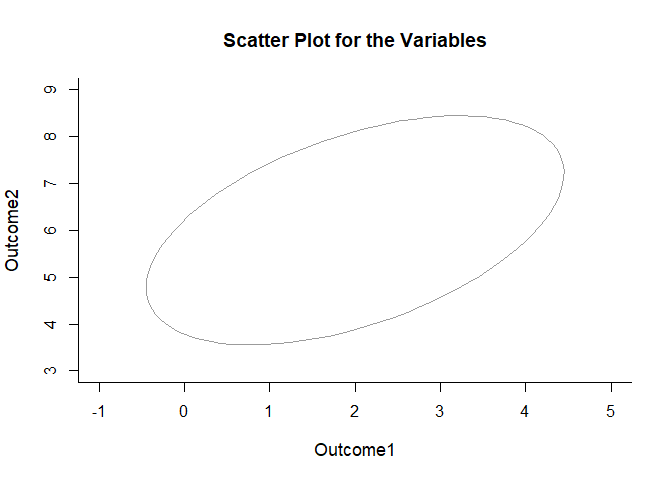
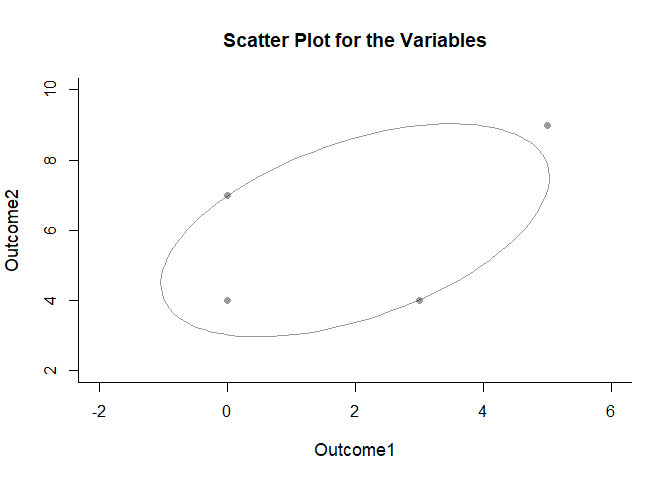
Updated scatter plots

diff --git a/docs/Tutorials/html/OneCorrelationDataTutorial.html b/docs/Tutorials/html/OneCorrelationDataTutorial.html
@@ -11,7 +11,7 @@
 
 <meta name="author" content="Craig A. Wendorf" />
 
-<meta name="date" content="2021-06-24" />
+<meta name="date" content="2021-06-25" />
 
 <title>Estimation Approach to Statistical Inference</title>
 
@@ -325,7 +325,7 @@ div.tocify {
 
 <h1 class="title toc-ignore">Estimation Approach to Statistical Inference</h1>
 <h4 class="author">Craig A. Wendorf</h4>
-<h4 class="date">2021-06-24</h4>
+<h4 class="date">2021-06-25</h4>
 
 </div>
 
@@ -347,10 +347,10 @@ div.tocify {
 <div class="sourceCode" id="cb2"><pre class="sourceCode r"><code class="sourceCode r"><span id="cb2-1"><a href="#cb2-1" aria-hidden="true" tabindex="-1"></a><span class="fu">plotScatter</span>(Outcome1,Outcome2)</span></code></pre></div>
[1 lines of base64/hex data omitted]
 <p>This code provides a scatterplot along with a 95% confidence ellipse for the data.</p>
-<div class="sourceCode" id="cb3"><pre class="sourceCode r"><code class="sourceCode r"><span id="cb3-1"><a href="#cb3-1" aria-hidden="true" tabindex="-1"></a><span class="fu">plotScatter</span>(Outcome1,Outcome2,<span class="at">interval=</span><span class="cn">TRUE</span>)</span></code></pre></div>
+<div class="sourceCode" id="cb3"><pre class="sourceCode r"><code class="sourceCode r"><span id="cb3-1"><a href="#cb3-1" aria-hidden="true" tabindex="-1"></a><span class="fu">plotScatter</span>(Outcome1,Outcome2,<span class="at">ellipse=</span><span class="cn">TRUE</span>)</span></code></pre></div>
[1 lines of base64/hex data omitted]
 <p>The ellipse can be altered for different confidence levels.</p>
-<div class="sourceCode" id="cb4"><pre class="sourceCode r"><code class="sourceCode r"><span id="cb4-1"><a href="#cb4-1" aria-hidden="true" tabindex="-1"></a><span class="fu">plotScatter</span>(Outcome1,Outcome2,<span class="at">interval=</span><span class="cn">TRUE</span>,<span class="at">conf.level=</span>.<span class="dv">99</span>)</span></code></pre></div>
+<div class="sourceCode" id="cb4"><pre class="sourceCode r"><code class="sourceCode r"><span id="cb4-1"><a href="#cb4-1" aria-hidden="true" tabindex="-1"></a><span class="fu">plotScatter</span>(Outcome1,Outcome2,<span class="at">ellipse=</span><span class="cn">TRUE</span>,<span class="at">conf.level=</span>.<span class="dv">99</span>)</span></code></pre></div>
[1 lines of base64/hex data omitted]
 </div>
 <div id="descriptive-statistics" class="section level4">

diff --git a/docs/Tutorials/OneCorrelationDataTutorial.md b/docs/Tutorials/OneCorrelationDataTutorial.md
@@ -1,7 +1,7 @@
 ---
 title: "Estimation Approach to Statistical Inference"
 author: "Craig A. Wendorf"
-date: "2021-06-24"
+date: "2021-06-25"
 output:
   html_document:
     toc: true
@@ -48,7 +48,7 @@ plotScatter(Outcome1,Outcome2)
 This code provides a scatterplot along with a 95% confidence ellipse for the data.
 
 ```r
-plotScatter(Outcome1,Outcome2,interval=TRUE)
+plotScatter(Outcome1,Outcome2,ellipse=TRUE)
 ```
 
 ![](figures/PairedCorrelation-ScatterB-1.png)<!-- -->
@@ -56,7 +56,7 @@ plotScatter(Outcome1,Outcome2,interval=TRUE)
 The ellipse can be altered for different confidence levels.
 
 ```r
-plotScatter(Outcome1,Outcome2,interval=TRUE,conf.level=.99)
+plotScatter(Outcome1,Outcome2,ellipse=TRUE,conf.level=.99)
 ```
 
 ![](figures/PairedCorrelation-ScatterC-1.png)<!-- -->
